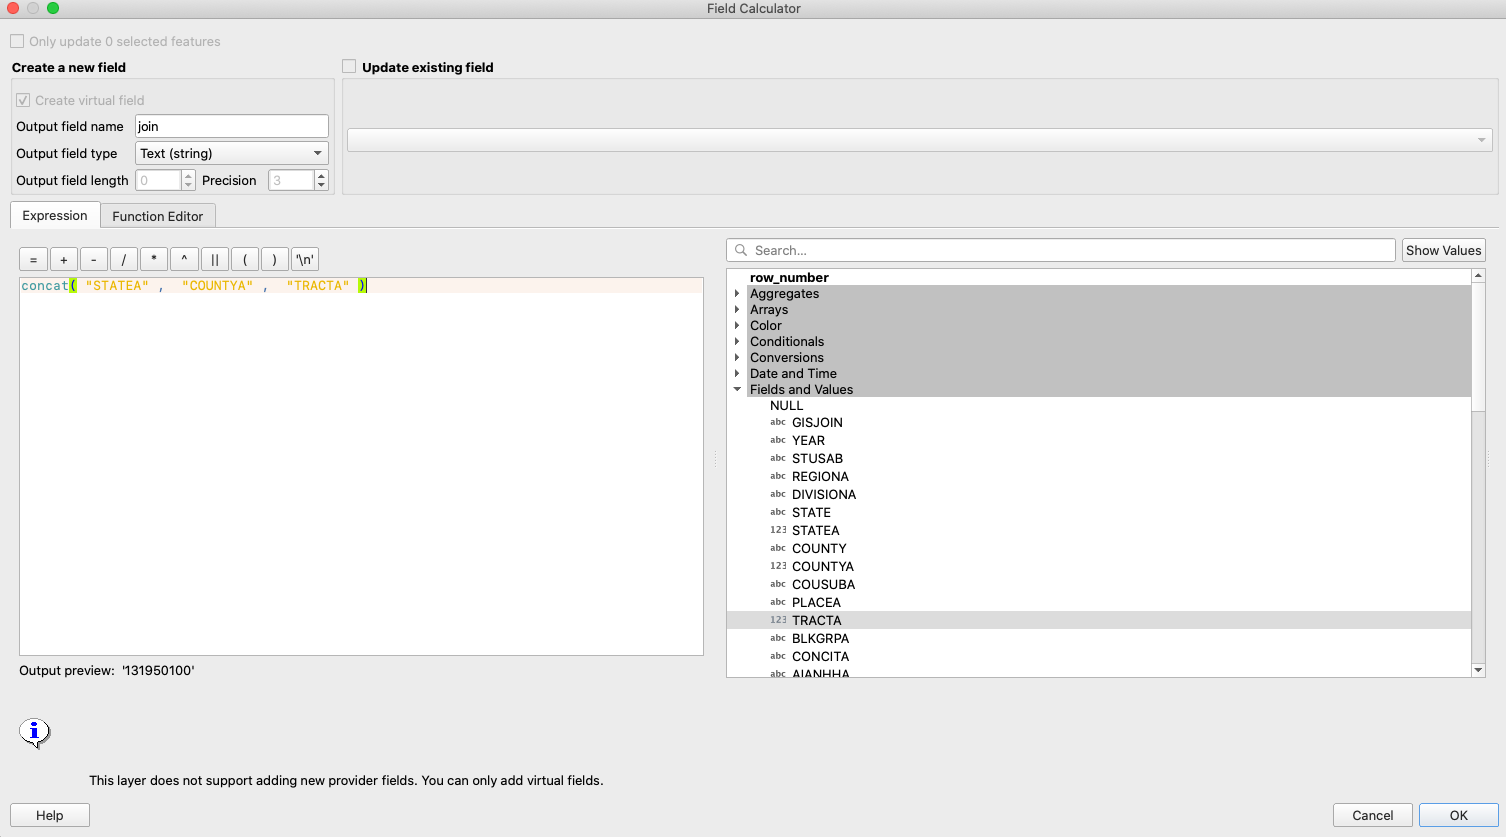
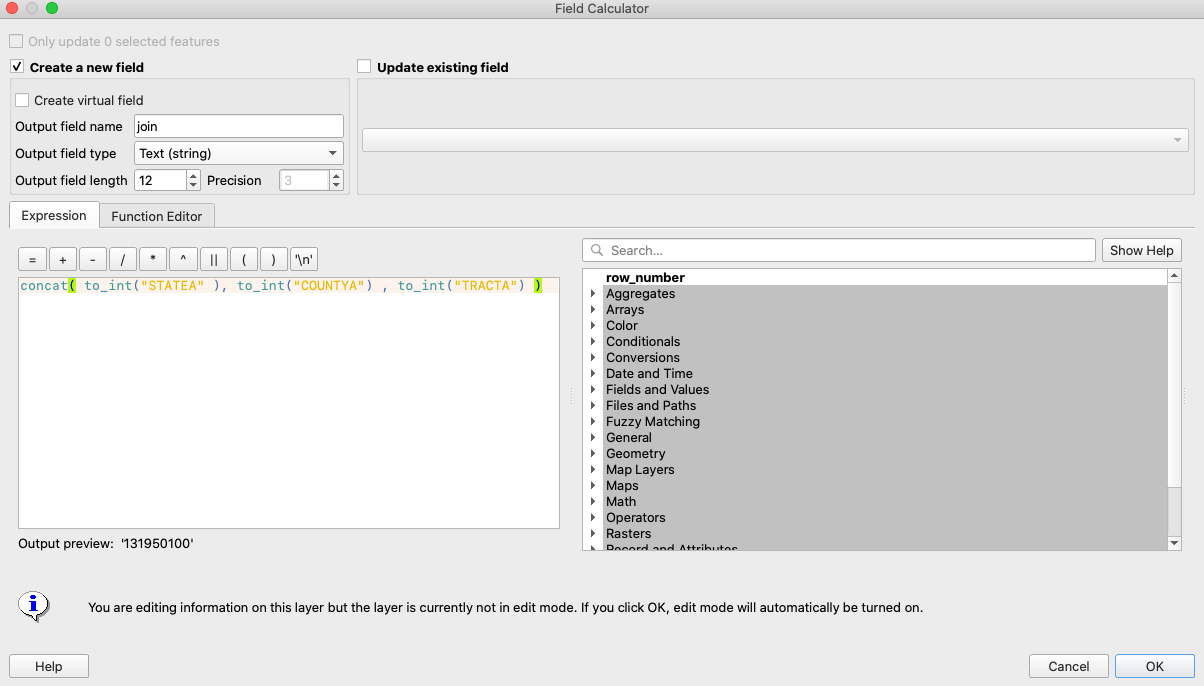
add extra image to explain join

diff --git a/week9/inclass-nhgis.html b/week9/inclass-nhgis.html
@@ -38,7 +38,8 @@
                         <li>In tracts_race_201519: </li>
                         <li>Open the Attribute Table and create a new field -- name it "join"</li>
                         <li>Output field type = "Text (string))"</li>
-                        <li>Expression = concat( "STATEA" , "COUNTYA" , "TRACTA" )</li>
+                        <li>Output field length = 12</li>
+                        <li>Expression = concat( to_int("STATEA" ), to_int("COUNTYA") , to_int("TRACTA") )</li>
                         <li>This combines the 3 fields into one with no spaces in between.</li>
                         <img src="img/csv_join.png">
                         <li>In Afford Ratio (the shapefile of all census tracts in Georgia): </li>
